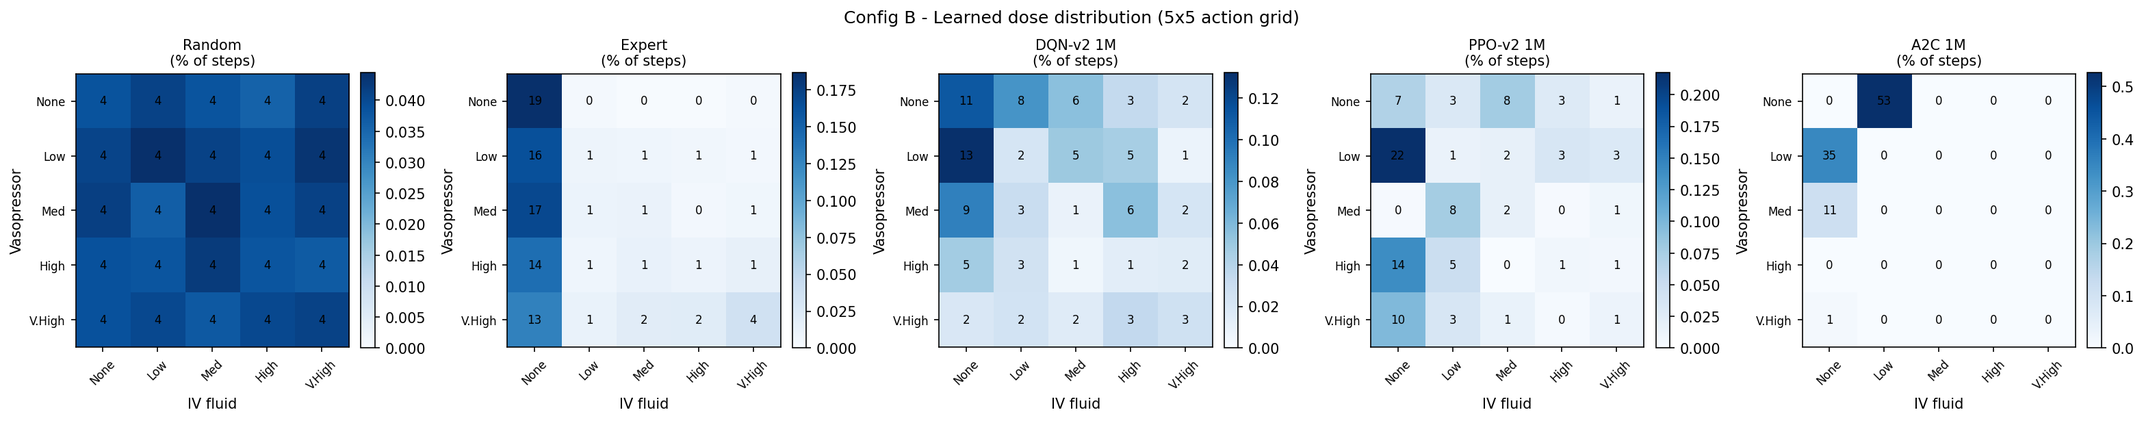
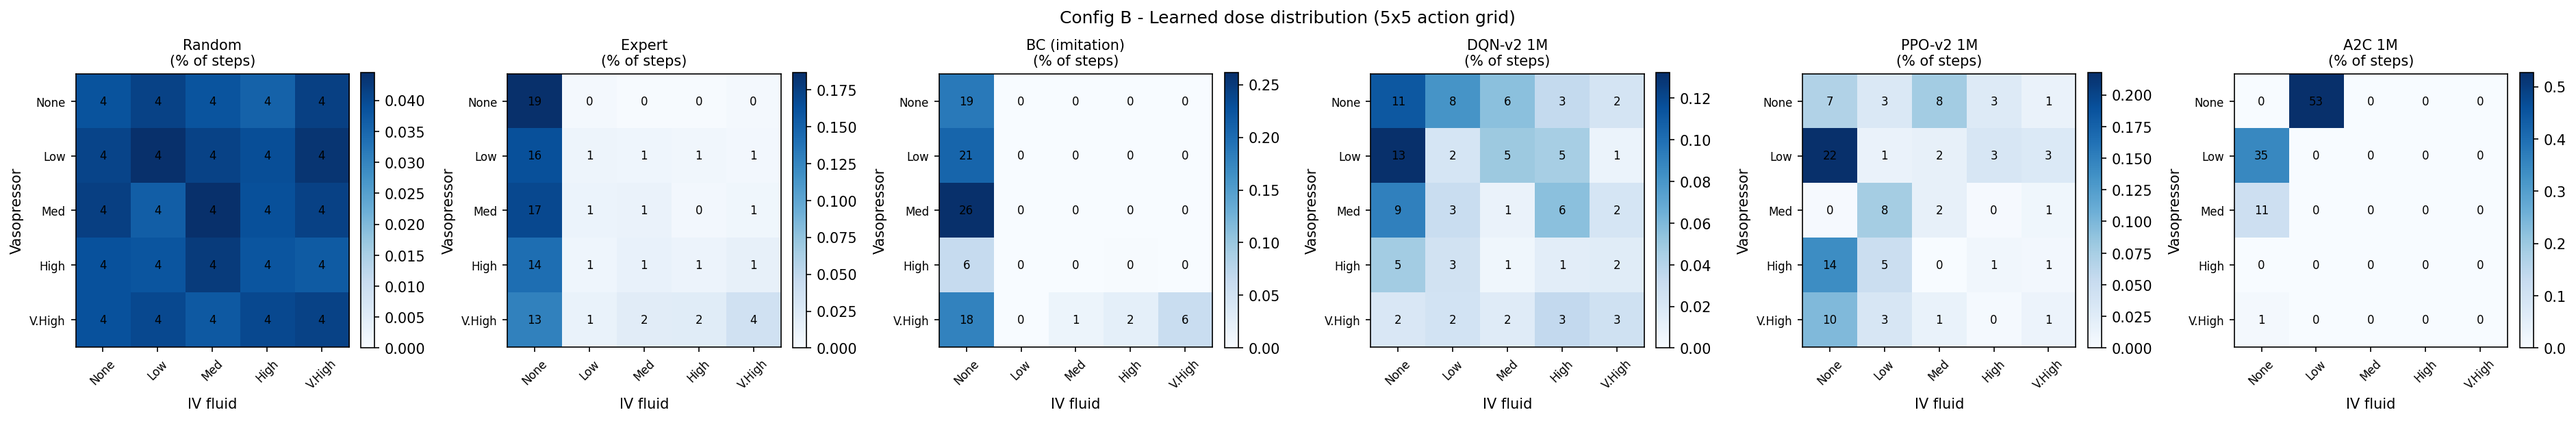
feat(extension): neural behavioural cloning (LfD) + SHAP feature importance
Learning from demonstrations (Hester et al. 2018): an MLP policy is trained to
imitate the AI Clinician behaviour policy (Komorowski et al. 2018) from the 47-dim
continuous observations, and evaluated with the same bucketed, CI-reported
protocol as the agents (collect_expert_demonstrations / train_bc / evaluate_bc;
run_bc.py runs the full pipeline). On clean episodes BC matches the expert
(71.7% vs 71.3% survival); on the full clinical env it loses ~2pp because it acts
on corrupted observations while the expert sees the true state.

Interpretability: shap_importance_dqn adds a gradient-SHAP attribution
(Lundberg & Lee 2017) on the greedy-action value as a principled complement to
the permutation importance, whose docstring now states the correlated-feature
caveat (Hooker et al. 2021).

diff --git a/sepsis_rl.py b/sepsis_rl.py
@@ -473,11 +473,20 @@ def feature_importance_dqn(
 ):
     """Permutation feature importance for a trained DQN, on its Q-network.
 
-    For each of the 47 clinical features we permute its values across a sample of
-    states and measure the mean |Delta Q| on the originally-chosen action. Large
-    values = the agent's decision relies heavily on that feature. If the run used
-    VecNormalize, the saved obs stats are applied first so |Delta Q| is computed on
-    the same normalized inputs the network was trained on.
+    For each of the 47 clinical features its values are permuted across a sample of
+    states and the mean absolute change in the Q-value of the originally chosen
+    action is recorded. A large change indicates that the agent's decision is
+    sensitive to that feature. When the run used VecNormalize, the saved
+    observation statistics are applied first, so the perturbation is measured on
+    the same normalised inputs the network was trained on.
+
+    Caveat. This is a sensitivity measure of the Q-function, not a causal measure
+    of importance. The 47 physiological variables are strongly correlated, so
+    permuting one in isolation produces off-distribution inputs and can over- or
+    under-state a feature's role (Hooker et al., 2021). It is also computed for a
+    single trained network. The SHAP-based estimate (``shap_importance_dqn``) is
+    a more principled complement; agreement between the two strengthens the
+    interpretation.
 
     Returns ``(importances, order)`` and saves a horizontal bar chart highlighting
     established sepsis-severity markers.
@@ -551,8 +560,247 @@ def feature_importance_dqn(
     return importances, order
 
 
+def shap_importance_dqn(
+    tag: str,
+    n_background: int = 100,
+    n_explain: int = 300,
+    seed: int = SEED,
+    top_n: int = 20,
+    filename: str = "configB_shap_importance.png",
+    show: bool = True,
+):
+    """SHAP feature importance for a trained DQN.
+
+    Uses a gradient-based SHAP estimator (Lundberg & Lee, 2017) on a wrapper that
+    returns the value of the greedy action, max_a Q(s, a). Mean absolute SHAP
+    values give a per-feature global attribution that, unlike single-feature
+    permutation, accounts for feature interactions and remains on the data
+    manifold. Provided as a complement to ``feature_importance_dqn``; consistent
+    rankings across the two methods make the interpretation more credible.
+
+    Returns ``(importances, order)``. Requires the ``shap`` package.
+    """
+    import torch
+    import shap
+    import matplotlib.pyplot as plt
+    from envs.continuous_sepsis_env import FEATURE_NAMES
+
+    ensure_dirs(OUTPUT_DIR)
+    model = _load_model("DQN", tag, use_best=True)
+    obs_rms = _load_obs_rms(tag)
+
+    rng = np.random.RandomState(seed)
+    env = make_clinical_env()
+    states = []
+    while len(states) < n_background + n_explain:
+        obs, _ = env.reset(seed=int(rng.randint(100_000)))
+        states.append(obs.copy())
+        done = False
+        while not done and len(states) < n_background + n_explain:
+            obs, _, te, tr, _ = env.step(env.action_space.sample())
+            states.append(obs.copy())
+            done = te or tr
+    env.close()
+    states = np.asarray(_normalize_obs(np.asarray(states, dtype=np.float32), obs_rms),
+                        dtype=np.float32)
+    background = torch.as_tensor(states[:n_background], device=model.device)
+    explain = torch.as_tensor(states[n_background:n_background + n_explain], device=model.device)
+
+    class _GreedyValue(torch.nn.Module):
+        def __init__(self, qnet):
+            super().__init__()
+            self.qnet = qnet
+
+        def forward(self, x):
+            return self.qnet(x).max(dim=1, keepdim=True).values
+
+    value_net = _GreedyValue(model.policy.q_net).to(model.device)
+    explainer = shap.GradientExplainer(value_net, background)
+    shap_values = explainer.shap_values(explain)
+    if isinstance(shap_values, list):
+        shap_values = shap_values[0]
+    shap_values = np.asarray(shap_values).reshape(len(explain), len(FEATURE_NAMES))
+    importances = np.mean(np.abs(shap_values), axis=0)
+
+    order = np.argsort(importances)[::-1]
+    markers = {"SOFA", "Lactate", "Mean_BP", "Systolic_BP", "Diastolic_BP",
+               "Urine_Output", "Creatinine", "HR", "RespRate", "GCS", "FiO2"}
+    labels = [FEATURE_NAMES[i] for i in order[:top_n]]
+    vals = importances[order[:top_n]]
+    colors = ["#E53935" if l in markers else "#42A5F5" for l in labels]
+
+    fig, ax = plt.subplots(figsize=(10, 6))
+    ax.barh(range(top_n)[::-1], vals, color=colors, alpha=0.85)
+    ax.set_yticks(range(top_n)[::-1]); ax.set_yticklabels(labels, fontsize=9)
+    ax.set_xlabel("Mean |SHAP value| on the greedy-action value")
+    ax.set_title(f"DQN SHAP importance - top {top_n} clinical variables\n"
+                 "(red = established sepsis-severity markers)", fontsize=11)
+    from matplotlib.patches import Patch
+    ax.legend(handles=[Patch(facecolor="#E53935", label="Sepsis severity marker"),
+                       Patch(facecolor="#42A5F5", label="Other clinical variable")],
+              loc="lower right")
+    fig.tight_layout()
+    path = os.path.join(OUTPUT_DIR, filename)
+    fig.savefig(path, dpi=150, bbox_inches="tight")
+    print(f"Saved {path}")
+    print("Top 10 features by SHAP:")
+    for r, idx in enumerate(order[:10], 1):
+        mk = " <- sepsis marker" if FEATURE_NAMES[idx] in markers else ""
+        print(f"  {r:2d}. {FEATURE_NAMES[idx]:<16s} {importances[idx]:.5f}{mk}")
+    plt.show() if show else plt.close(fig)
+    return importances, order
+
+
 # --------------------------------------------------------------------------- #
-# Cross-config comparison (reads the REAL Config A metrics from JSON)
+# Learning from demonstrations: behavioural cloning of the clinician policy
+# --------------------------------------------------------------------------- #
+class _BCNet(torch.nn.Module):
+    """Small MLP classifier mapping a 47-dim observation to one of 25 actions."""
+
+    def __init__(self, n_in: int = 47, n_actions: int = N_ACTIONS,
+                 hidden=(128, 128)):
+        super().__init__()
+        layers, d = [], n_in
+        for h in hidden:
+            layers += [torch.nn.Linear(d, h), torch.nn.ReLU()]
+            d = h
+        layers += [torch.nn.Linear(d, n_actions)]
+        self.net = torch.nn.Sequential(*layers)
+
+    def forward(self, x):
+        return self.net(x)
+
+
+class BCPolicy:
+    """Trained behavioural-cloning policy with an SB3-style ``predict`` interface.
+
+    Stores the standardisation statistics so inference matches training.
+    """
+
+    def __init__(self, net: "_BCNet", mean: np.ndarray, std: np.ndarray):
+        self.net = net
+        self.mean = mean
+        self.std = std
+
+    def predict(self, obs, deterministic: bool = True):
+        x = (np.asarray(obs, dtype=np.float32) - self.mean) / self.std
+        with torch.no_grad():
+            logits = self.net(torch.as_tensor(x, device=DEVICE).unsqueeze(0))
+            if deterministic:
+                a = int(logits.argmax(dim=1).item())
+            else:
+                a = int(torch.distributions.Categorical(logits=logits).sample().item())
+        return a, None
+
+
+def collect_expert_demonstrations(n_episodes: int = 4000, seed_offset: int = 60_000,
+                                  seed: int = SEED):
+    """Roll out the clinician expert policy and record (observation, action) pairs.
+
+    Demonstrations are gathered on the clinical environment, so the observations
+    carry the same noise and missingness the agents face, while the action labels
+    come from the expert acting on the true patient state (the AI Clinician
+    behaviour policy, Komorowski et al., 2018). Returns ``(X, y)`` with
+    ``X`` of shape (n_samples, 47) and integer action labels ``y``.
+    """
+    rng = np.random.RandomState(seed)
+    env = make_clinical_env()
+    base = env.unwrapped
+    expert = base._raw._expert_policy.astype(np.float64)
+    row_sums = expert.sum(axis=1, keepdims=True)
+    expert = np.divide(expert, np.maximum(row_sums, 1e-12),
+                       out=np.zeros_like(expert), where=row_sums > 0)
+
+    X, y = [], []
+    for ep in range(n_episodes):
+        obs, info = env.reset(seed=seed_offset + ep)
+        done = False
+        while not done:
+            state = int(base._raw._current_state)
+            probs = expert[state]
+            a = int(rng.choice(N_ACTIONS, p=probs)) if probs.sum() > 0 \
+                else int(env.action_space.sample())
+            X.append(np.asarray(obs, dtype=np.float32))
+            y.append(a)
+            obs, reward, te, tr, info = env.step(a)
+            done = te or tr
+    env.close()
+    return np.asarray(X, dtype=np.float32), np.asarray(y, dtype=np.int64)
+
+
+def train_bc(X, y, epochs: int = 30, batch_size: int = 256, lr: float = 1e-3,
+             seed: int = SEED, verbose: bool = True) -> BCPolicy:
+    """Behavioural cloning: a supervised MLP that imitates the expert from
+    observations.
+
+    This is the imitation (pre-training) component of demonstration-based deep RL
+    such as DQfD (Hester et al., 2018): a policy is learned from expert
+    demonstrations by action classification. Inputs are standardised because the
+    physiological features span very different scales.
+    """
+    set_seed(seed)
+    mean = X.mean(axis=0)
+    std = X.std(axis=0) + 1e-6
+    Xt = torch.as_tensor((X - mean) / std, dtype=torch.float32, device=DEVICE)
+    yt = torch.as_tensor(y, dtype=torch.long, device=DEVICE)
+    net = _BCNet().to(DEVICE)
+    opt = torch.optim.Adam(net.parameters(), lr=lr)
+    loss_fn = torch.nn.CrossEntropyLoss()
+
+    n = len(Xt)
+    for ep in range(epochs):
+        perm = torch.randperm(n, device=DEVICE)
+        running = 0.0
+        for i in range(0, n, batch_size):
+            idx = perm[i:i + batch_size]
+            opt.zero_grad()
+            loss = loss_fn(net(Xt[idx]), yt[idx])
+            loss.backward()
+            opt.step()
+            running += float(loss) * len(idx)
+        if verbose and (ep + 1) % 10 == 0:
+            with torch.no_grad():
+                acc = (net(Xt).argmax(dim=1) == yt).float().mean().item()
+            print(f"  BC epoch {ep + 1:3d}  loss={running / n:.4f}  train_acc={acc:.3f}")
+    return BCPolicy(net, mean, std)
+
+
+def evaluate_bc(bc: BCPolicy, n_episodes: int = 1000, seed_offset: int = 20_000):
+    """Evaluate a behavioural-cloning policy with the same bucketed, CI-reported
+    protocol as the agents and reference policies."""
+    raw = {b: {"ret": [], "surv": [], "intens": []} for b in BUCKETS}
+    action_counts = np.zeros(N_ACTIONS, dtype=np.int64)
+    env = make_clinical_env()
+    for ep in range(n_episodes):
+        obs, info = env.reset(seed=seed_offset + ep)
+        ep_noisy = bool(info.get("noisy_episode", False))
+        ep_missing = info.get("missing_features") is not None
+        ep_acute = False
+        done, ep_ret, last_r = False, 0.0, 0.0
+        ep_intens, ep_steps = 0.0, 0
+        while not done:
+            a, _ = bc.predict(obs, deterministic=True)
+            obs, reward, terminated, truncated, info = env.step(a)
+            done = terminated or truncated
+            ep_ret += reward; last_r = reward
+            ep_intens += INTENSITY[a]; ep_steps += 1; action_counts[a] += 1
+            if info.get("acute_event", False):
+                ep_acute = True
+        surv = 1.0 if last_r > 0.5 else 0.0
+        intens = ep_intens / max(ep_steps, 1)
+        hit = ["All"]
+        if not ep_noisy and not ep_missing and not ep_acute: hit.append("Clean")
+        if ep_noisy: hit.append("Noisy")
+        if ep_missing: hit.append("Missing")
+        if ep_acute: hit.append("Acute")
+        for b in hit:
+            raw[b]["ret"].append(ep_ret); raw[b]["surv"].append(surv); raw[b]["intens"].append(intens)
+    env.close()
+    return _summarise_buckets(raw, action_counts, tag="bc")
+
+
+# --------------------------------------------------------------------------- #
+# Cross-config comparison (reads the Config A metrics from JSON)
 # --------------------------------------------------------------------------- #
 def compare_configs(
     results_b: Dict[str, Dict[str, object]],

diff --git a/run_bc.py b/run_bc.py
@@ -1,0 +1,48 @@
+"""Learning from demonstrations: behavioural cloning of the clinician policy.
+
+Trains a neural policy to imitate the AI Clinician behaviour policy from the
+47-dimensional continuous observations (the imitation / pre-training stage of
+demonstration-based deep RL such as DQfD, Hester et al. 2018), evaluates it with
+the same bucketed, CI-reported protocol as the agents, and adds it to the Config B
+comparison. The trained agents are reused from the saved 1M results, so this does
+not retrain any RL agent.
+"""
+import json
+import shutil
+from pathlib import Path
+
+import matplotlib
+matplotlib.use("Agg")
+
+import sepsis_rl as srl
+
+# 1. Behavioural cloning from expert demonstrations
+X, y = srl.collect_expert_demonstrations(n_episodes=4000)
+print(f"Collected {len(X)} demonstration steps from the expert policy.")
+bc = srl.train_bc(X, y, epochs=30)
+bc_res = srl.evaluate_bc(bc, n_episodes=1000)
+
+# 2. Record the BC result alongside the existing 1M evaluation
+results_path = Path("configB_1m_results.json")
+summary = json.loads(results_path.read_text(encoding="utf-8")) if results_path.exists() else {}
+summary["bc"] = bc_res
+results_path.write_text(json.dumps(summary, indent=2), encoding="utf-8")
+
+# 3. Assemble the full comparison (reference policies + imitation + RL agents)
+order = [("random", "Random"), ("expert", "Expert"), ("bc", "BC (imitation)"),
+         ("DQN-v2 1M", "DQN-v2 1M"), ("PPO-v2 1M", "PPO-v2 1M"), ("A2C 1M", "A2C 1M")]
+results = {label: summary[key] for key, label in order if key in summary}
+
+comparison = srl.compare_configs(results)
+print("\n=== CONFIG A vs CONFIG B (with BC and 95% CI on Config B survival) ===")
+print(comparison.to_string(index=False))
+comparison.to_csv("configB_1m_compare_configs.csv", index=False)
+
+srl.plot_robustness(results, metric="survival",
+                    baseline=results["Random"]["All"]["survival"],
+                    filename="configB_1m_robustness_survival.png", show=False)
+srl.plot_dose_grid(results, filename="configB_1m_dose_grid.png", show=False)
+
+for p in Path("outputs").glob("configB_1m_*.png"):
+    shutil.copy2(p, Path("plots") / p.name)
+print("\nUpdated configB_1m_results.json, configB_1m_compare_configs.csv and plots/.")
